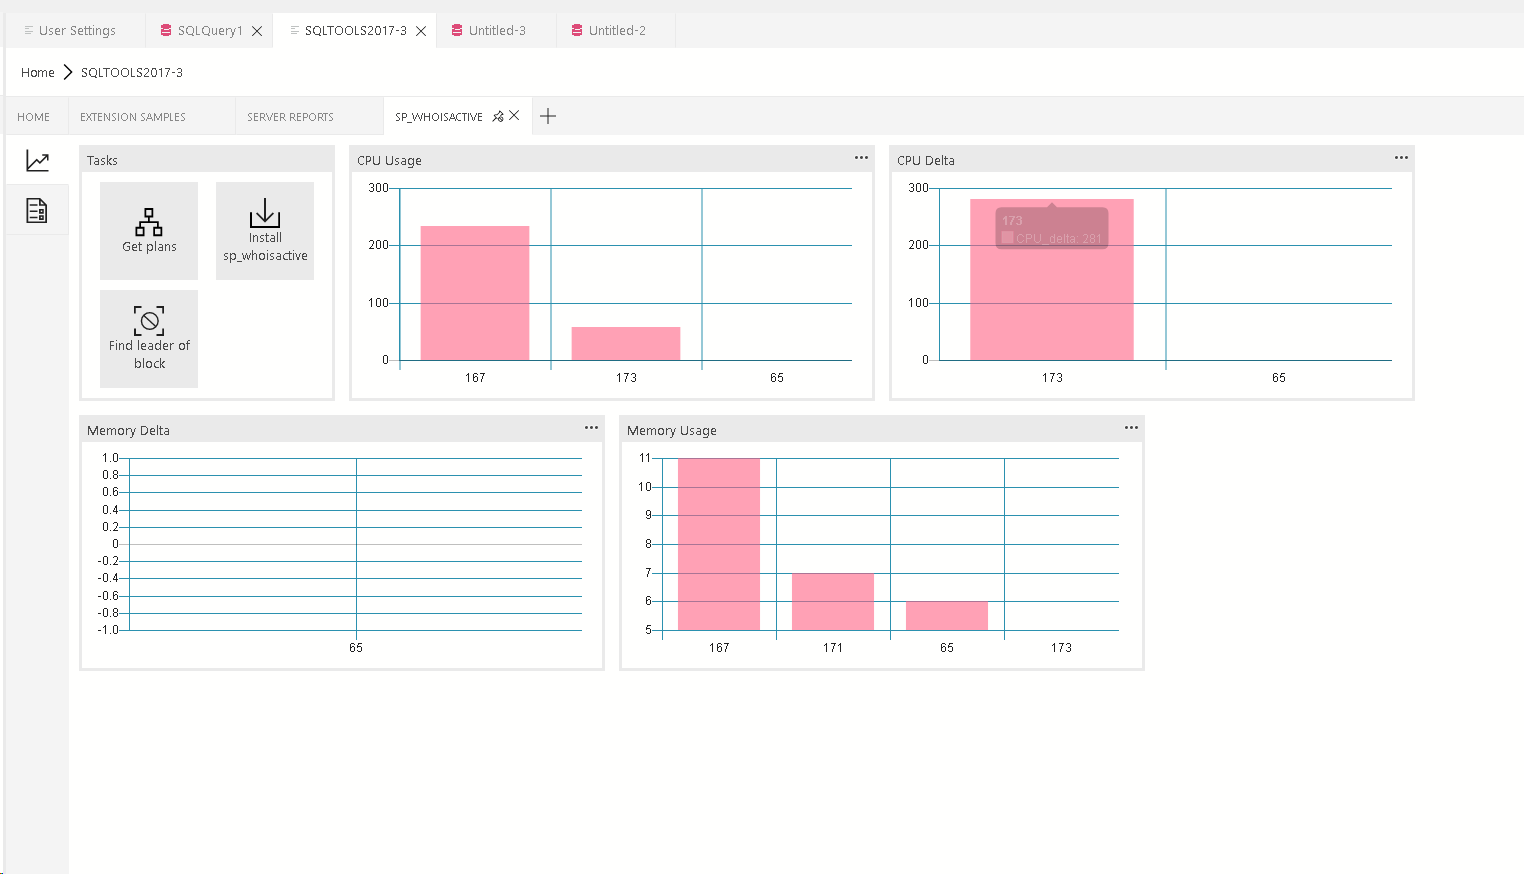
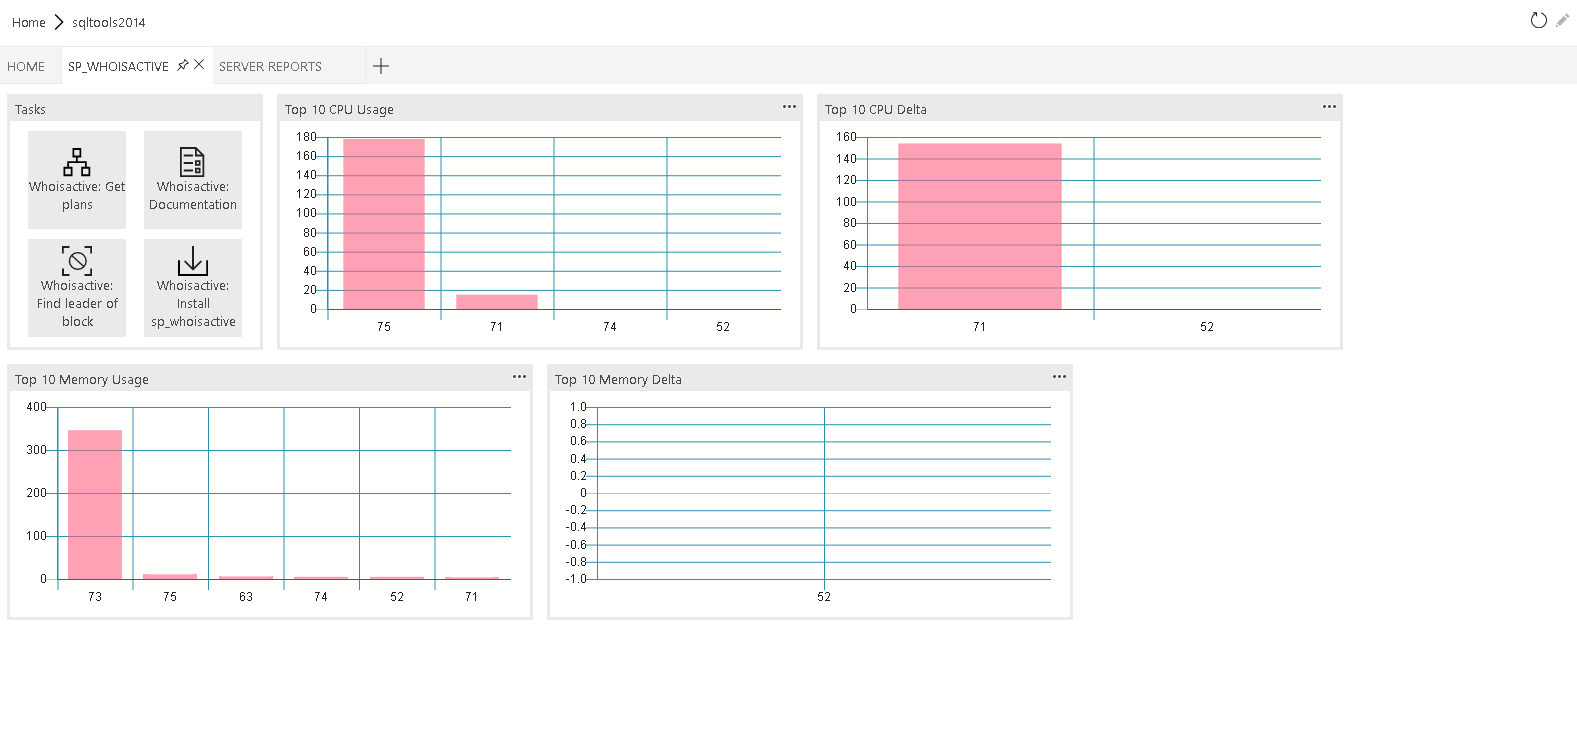
add details for each chart and update readme

diff --git a/samples/sp_whoIsActive/README.md b/samples/sp_whoIsActive/README.md
@@ -6,6 +6,11 @@ Welcome to **sp_whoisactive** for SQL Operations Studio! Sp_whoisactive is a pro
 
 <img src="https://github.com/Microsoft/sqlopsstudio/raw/master/samples/sp_whoIsActive/images/insights_section.png" alt="insights" style="width:480px;"/>
 
+Details:
+
+<img src="https://github.com/Microsoft/sqlopsstudio/raw/master/samples/sp_whoIsActive/images/insights_details_section.png" alt="insights" style="width:240px;"/>
+
+
 ## Why use sp_whoisactive?
 Here are some quick facts on Who is Active from [Adam Machanic’s blog]:
 
@@ -15,9 +20,6 @@ Here are some quick facts on Who is Active from [Adam Machanic’s blog]:
   * Who is Active is **compatible with all versions of SQL Server after SQL Server 2005 RTM**. It does require that the host database (generally master) is not set for SQL Server 2000 compatibility mode
 
 ## Documentation: 
-
-<img src="https://github.com/Microsoft/sqlopsstudio/raw/master/samples/sp_whoIsActive/images/documentation_section.png" alt="documentation" style="width:480px;"/>
-
 If you haven't installed sp_whoisactive in your server, you can use the "Install sp_whoisactive" task to create the procedure. 
 
 See [sp_whoisactive Documentation] for more infomation.
@@ -34,3 +36,9 @@ See [sp_whoisactive extension project] in the SQL Operations Studio for the exte
 
 ## Contributions and "thank you"
 Special thank to Adam Machanic for partnering with us and make this sp_whoisactive extension possible.  
+
+## What's new in Server Reports v1.1?
+* Changed CPU usage, CPU delta, memory usage, memory delta to show only top 10 data
+* Added details option on each chart to display the detail of each data entry
+* "Get plans" and "Find leader of block" tasks are now opened new editor, configured current dashboard connection, and ran the query.
+
